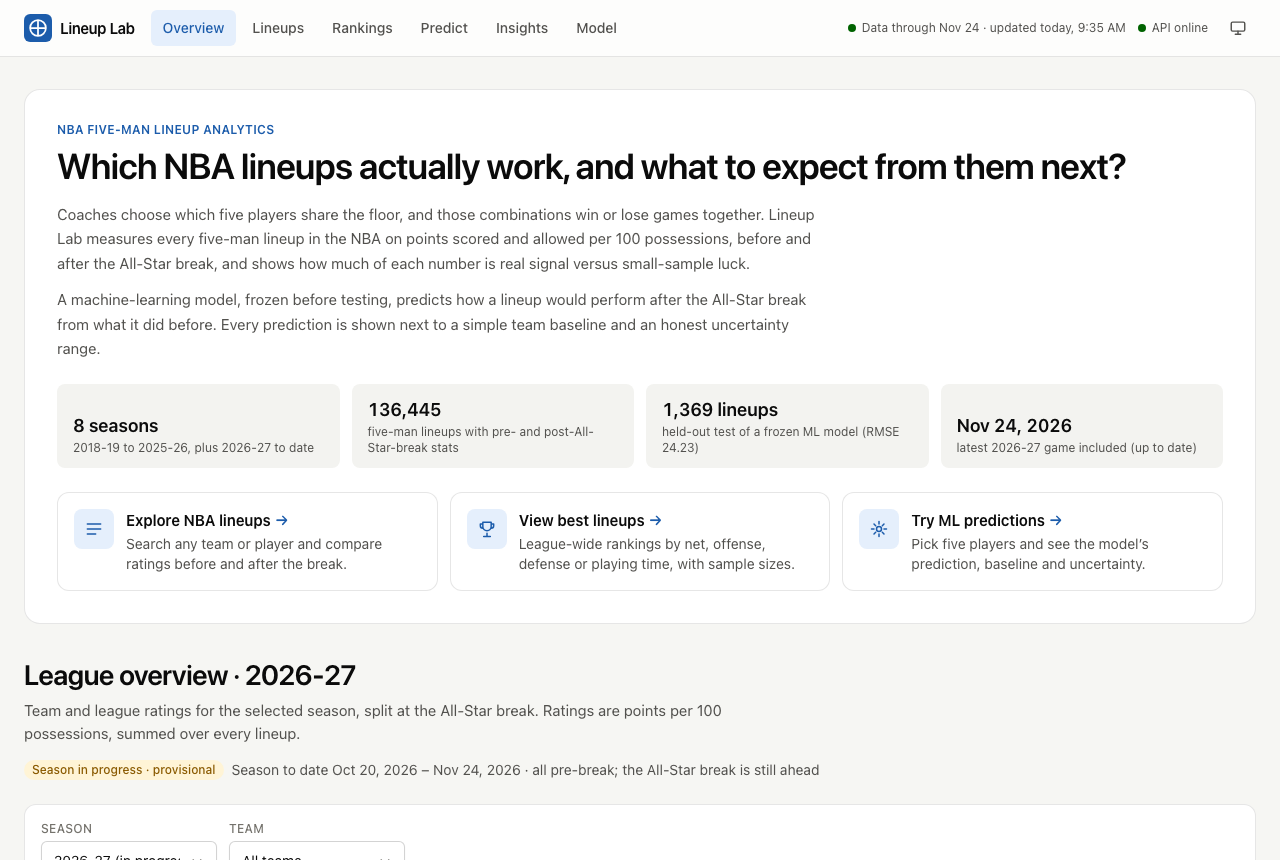
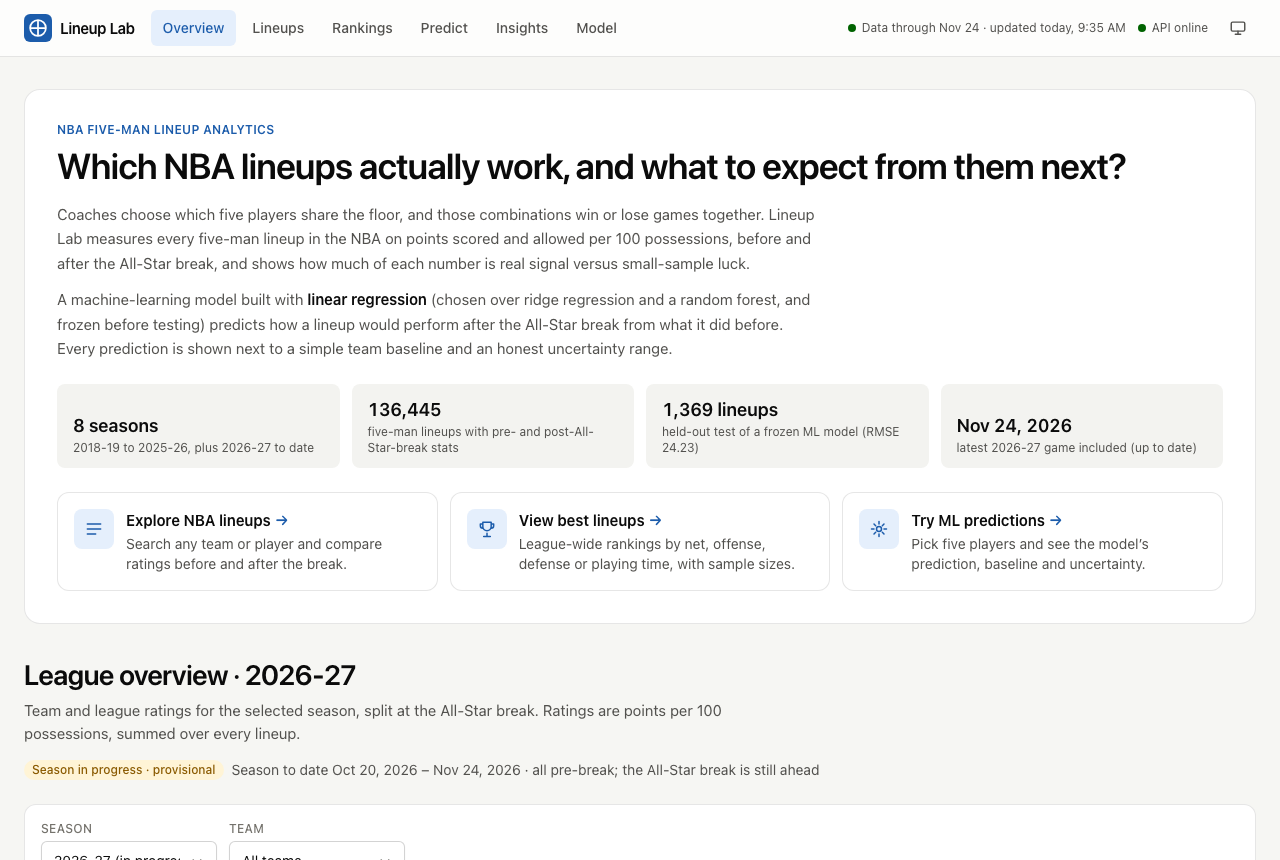
Landing page: name linear regression as the model type

Changed region(s): [[0.0312, 0.3326, 0.625, 0.4233]]

diff --git a/web/src/components/home/Hero.tsx b/web/src/components/home/Hero.tsx
@@ -60,7 +60,7 @@ export function Hero() {
           and allowed per 100 possessions, before and after the All-Star break, and shows how much of each number is real signal versus small-sample luck.
         </p>
         <p>
-          A machine-learning model, frozen before testing, predicts how a lineup would perform after the All-Star break from what it did before. Every prediction is shown next to a
+          A machine-learning model built with <strong className="font-semibold text-ink">linear regression</strong> (chosen over ridge regression and a random forest, and frozen before testing) predicts how a lineup would perform after the All-Star break from what it did before. Every prediction is shown next to a
           simple team baseline and an honest uncertainty range.
         </p>
       </div>

diff --git a/web/src/pages/pages.test.tsx b/web/src/pages/pages.test.tsx
@@ -22,6 +22,7 @@ describe('Landing introduction', () => {
     const perf = fixture<ModelPerformance>('model-performance')
     const pooled = perf.held_out.find((e) => e.evaluation === 'pooled')!
     expect(await within(hero).findByText(new RegExp(`RMSE ${pooled.rmse_model.estimate.toFixed(2)}`))).toBeInTheDocument()
+    expect(hero).toHaveTextContent('A machine-learning model built with linear regression')
     expect(screen.getByTestId('cta-lineups')).toHaveAttribute('href', '/lineups')
     expect(screen.getByTestId('cta-rankings')).toHaveAttribute('href', '/rankings')
     expect(screen.getByTestId('cta-predict')).toHaveAttribute('href', '/predict')
